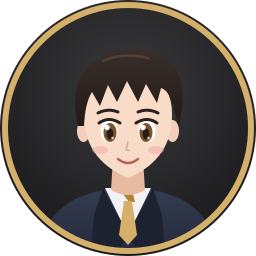
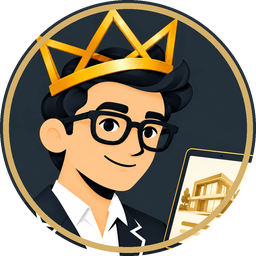
Проводник: ширина боковой панели; Flameshot в автозапуске и «Избранном»; новый аватар менеджера; light-locker; тёмная тема для программ через портал и переключатель; быстродействие

diff --git a/ДОРАБОТКИ.md b/ДОРАБОТКИ.md
@@ -234,6 +234,22 @@
   углов, серая «Далее» на «Готово», один Telegram в меню, блокировка экрана с аватаром,
   «Профиль» (mugshot), права системных файлов (`/` и su — root, setuid).
 
+## Замечания 28.10.2026
+
+- [x] Проводник: боковая панель «Места» сжималась до значков с «…» — фиксированная
+  ширина 210 px (`thunar.xml`).
+- [x] Flameshot — в автозапуске (значок в трее) и в «Избранном» (значит, и на столе).
+- [x] Аватар «Менеджера» — картинка заказчика (менеджер в короне с планшетом),
+  исходник `branding/avatar-manager-source.png`.
+- [x] Блокировка экрана выглядела иначе, чем вход: `light-locker` вместо
+  `xfce4-screensaver` — разблокировка тем же экраном входа LightDM. Короткий чёрный экран
+  при блокировке остаётся (переключение на экран входа).
+- [x] Тема «наполовину светлая»: браузеры, Telegram и EliteSIP узнают тему через портал
+  (color-scheme), а он не был установлен. Добавлены xdg-desktop-portal(-gtk), по умолчанию
+  `prefer-dark`; переключатель «Тёмная / светлая тема» в меню «Настройки» (`elite-theme`).
+- [x] Быстродействие: загрузка не ждёт сети, журнал ≤ 100 МБ, убран лишний автозапуск
+  (SSH-агент, смарт-карты, каталоги KDE). Уже было: zram, BFQ на HDD, preload, noatime.
+
 ## Известные хвосты (найдены при сборке)
 
 - [x] **EliteSIP: зависимость `libicu74`.** Исправлено в проекте Linux EliteSip
